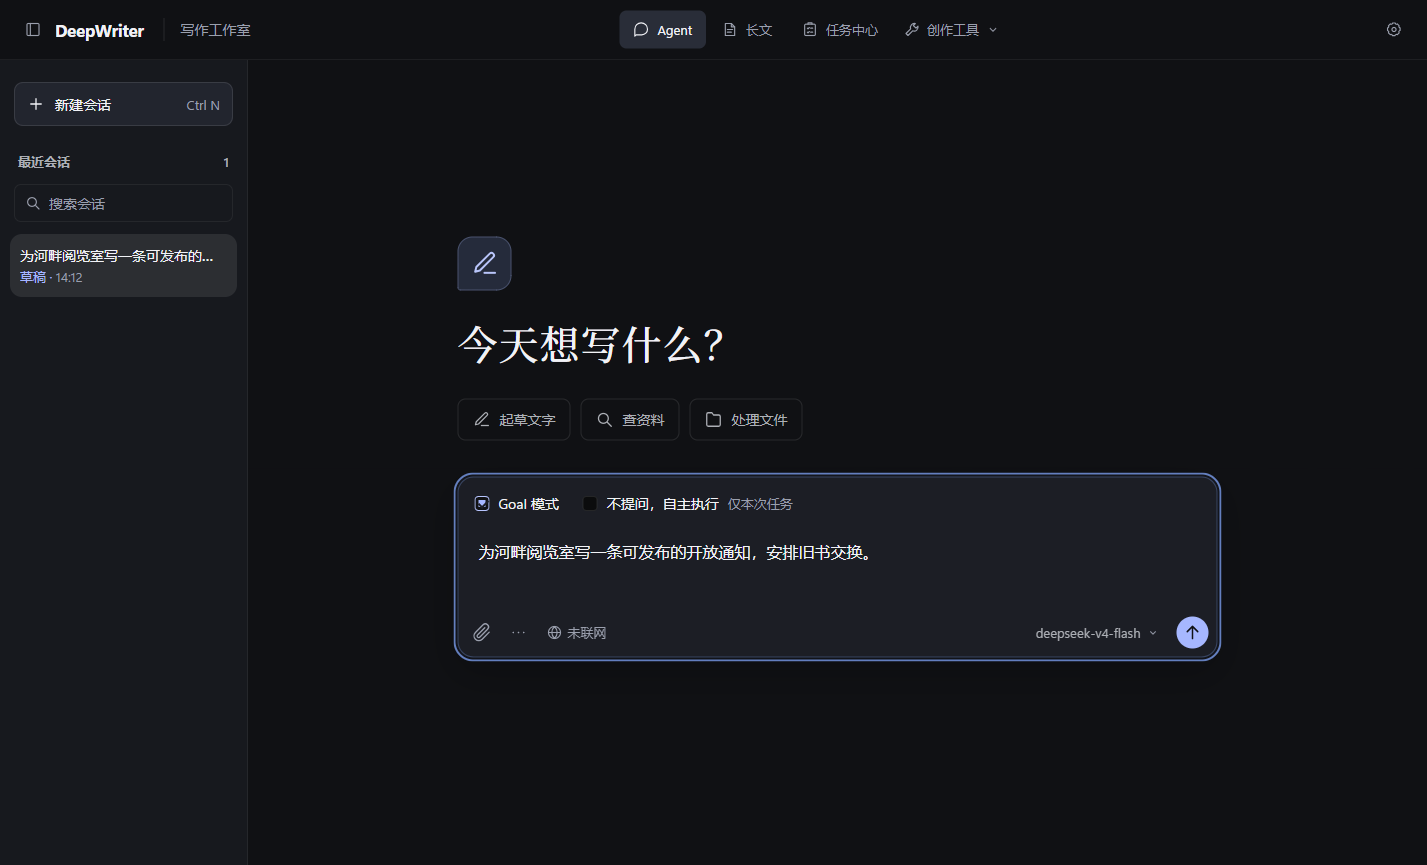
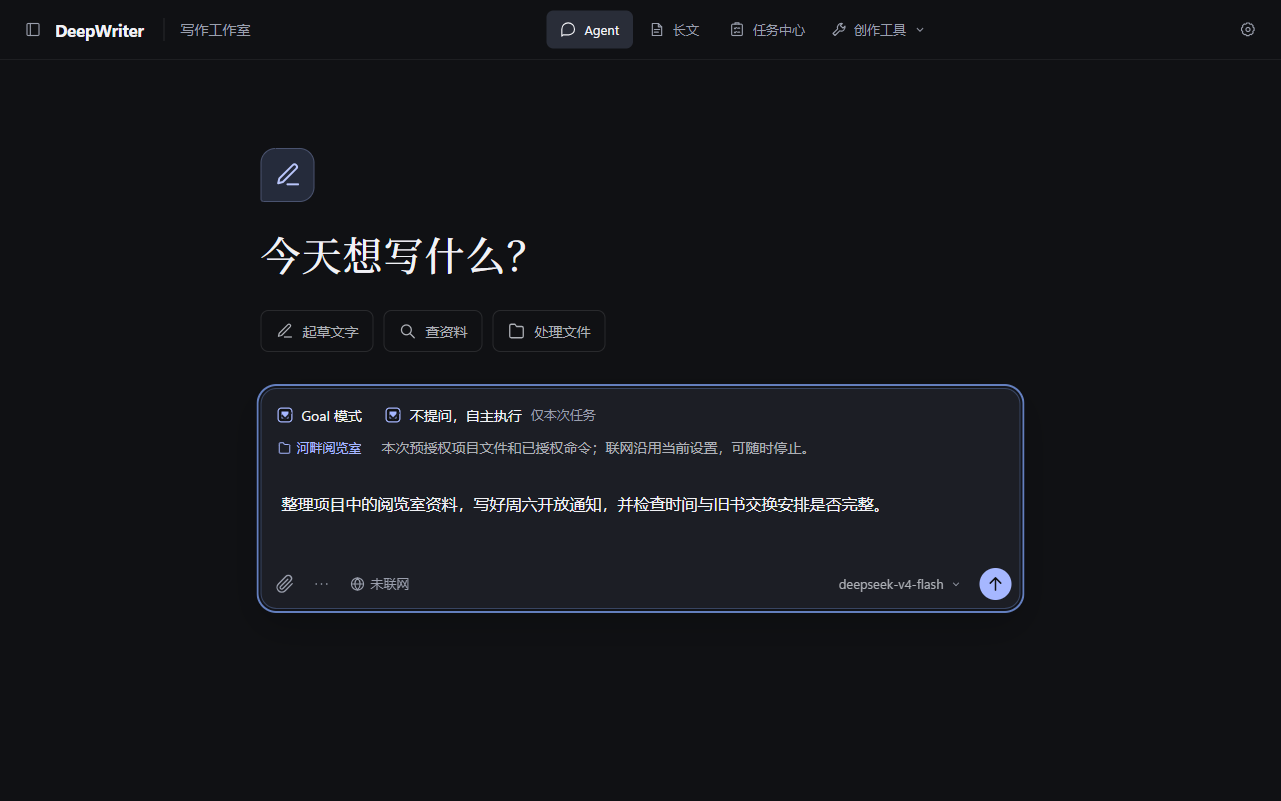
Keep goal delivery tied to the actual file and restore the same conversation on resume

diff --git a/src/main/jobs/fileDelivery.ts b/src/main/jobs/fileDelivery.ts
@@ -23,7 +23,7 @@ function plain(text: string): string {
 }
 export function deliveryPaths(text: string): string[] {
   const quoted = [...text.matchAll(/[`"“「]([^`"”」\r\n]+\.[a-zA-Z0-9]{1,10})[`"”」]/gu)].map(match => match[1])
-  const remaining = text.replace(/[`"“「][^`"”」\r\n]+[`"”」]/gu, ' ').replace(/(?:写入|保存(?:到|为)?|创建|生成|导出|存到|写到)\s*/gu, ' ')
+  const remaining = text.replace(/[`"“「][^`"”」\r\n]+[`"”」]/gu, ' ').replace(/(?:写入|保存(?:到|为|成)?|创建|生成|导出|存(?:到|为|成)|写到)\s*/gu, ' ')
   const bare = [...remaining.matchAll(/(?:[A-Za-z]:[\\/]|\.{1,2}[\\/]|\/)?(?:[\p{L}\p{N}_.-]+[\\/])*[\p{L}\p{N}_-]+\.[a-zA-Z0-9]{1,10}/gu)].map(match => match[0])
   return [...new Set([...quoted, ...bare])].filter(item => !/^https?:/iu.test(item) && !/^\d+\.\d+$/u.test(item))
 }
@@ -36,7 +36,7 @@ export function fileDeliveryObligation(text: string, speaker: 'user' | 'assistan
   for (const sentence of sentences) {
     if (/(?:如何|怎么|怎样|示例|举例|解释|演示|只(?:需|要|给)|不要|无需|不必|不(?:要|用|必)写入|没有|尚未|未曾|未实际|尚不|并未|无法|不能|拒绝|未成功|未写入|未保存|未创建|not(?:\s+been)?\s+(?:written|saved|created)|how\s+to|example)/iu.test(sentence)) continue
     if (speaker === 'assistant' && /(?:你可以|您可以|可自行|建议你|you (?:can|could|should))/iu.test(sentence)) continue
-    const verb = /写入|写成|保存(?:到|为|成)?|写到|存到|存为|落盘|创建|生成|制作|做成|导出|create|write|save|export|generate/iu.exec(sentence)
+    const verb = /写入|写成|保存(?:到|为|成)?|写到|存到|存为|存成|落盘|创建|生成|制作|做成|导出|create|write|save|export|generate/iu.exec(sentence)
     if (!verb) continue
     // Bind targets to the write destination, not to every mentioned source.
     // A passive completion ("result.md 已生成") binds its preceding object.
@@ -45,10 +45,10 @@ export function fileDeliveryObligation(text: string, speaker: 'user' | 'assistan
     if (!paths.length && speaker === 'assistant') paths = deliveryPaths(sentence.slice(0, verb.index)).slice(-1)
     if (paths.length > 0 && !paths.some(file => documentPath.test(file))) continue
     paths = paths.filter(file => documentPath.test(file))
-    const stored = /(?:写入|保存|写到|存到|存为|落盘|导出|save|export)/iu.test(sentence)
+    const stored = /(?:写入|保存|写到|存到|存为|存成|落盘|导出|save|export)/iu.test(sentence)
     const fileObject = paths.length > 0 || /(?:文件|本地|工作目录|文档目录|Word|PDF|Excel|file)/iu.test(sentence) || (stored && /文档|稿件|报告|document/iu.test(sentence))
     const act = speaker === 'user'
-      ? directed || /(?:^\s*(?:写入|保存|创建|生成|制作|导出)|^\s*(?:只)?(?:把|将).{0,80}(?:写入|保存|创建|生成|导出)|\b(?:please|create|write|save|export|generate)\b)/iu.test(sentence)
+      ? directed || /(?:^\s*(?:写入|保存|存到|存为|存成|创建|生成|制作|导出)|^\s*(?:只)?(?:把|将).{0,80}(?:写入|保存|存到|存为|存成|创建|生成|导出)|\b(?:please|create|write|save|export|generate)\b)/iu.test(sentence)
       : /(?:已(?:经)?|完成|成功|\b(?:I have|saved|written|created|exported|generated)\b)/iu.test(sentence) || (promises && /(?:我(?:会|将|来)|马上|现在|\bI will\b)/iu.test(sentence))
     if (fileObject && act) { required = true; targets.push(...paths) }
   }

diff --git a/src/renderer/src/store.ts b/src/renderer/src/store.ts
@@ -1251,12 +1251,18 @@ export const useStore = create<StudioStore>((set, get) => ({
   resumeRun: async (runId, tokenBudget, removeCallLimit, reauthorizeGoal) => {
     const ds = (window as any).ds
     if (!ds?.runsResume) return false
-    const goalResume = get().recoverableRuns.some(run => run.runId === runId && run.config.goalMode)
+    const recovery = get().recoverableRuns.find(run => run.runId === runId)
+    const goalResume = recovery?.config.goalMode && recovery.sessionId === get().currentSessionId
     const previousReply = goalResume ? get().messages.find(message => message.role === 'assistant' && (message.id === runId || message.id === `m_${runId}_assistant`)) : undefined
-    if (previousReply) set(state => ({ messages: state.messages.map(message => message.id === previousReply.id ? { ...message, content: '', status: 'thinking' } : message) }))
+    // A blocked goal can have no persisted assistant prose yet. Recreate only
+    // its presentation slot; its objective and execution remain main-owned.
+    const resumedReply: StudioUiMessage | undefined = !goalResume ? undefined : previousReply
+      ? { ...previousReply, content: '', status: 'thinking' }
+      : { id: runId, role: 'assistant', content: '', reasoning: '', status: 'thinking', usage: null, rounds: 0, toolEvents: [] }
+    if (resumedReply) set(state => ({ messages: previousReply ? state.messages.map(message => message.id === previousReply.id ? resumedReply : message) : [...state.messages, resumedReply] }))
     const rollbackReply = (): void => {
-      if (!previousReply) return
-      set(state => ({ messages: state.messages.map(message => message.id === previousReply.id && message.status === 'thinking' && !message.content ? previousReply : message) }))
+      if (!resumedReply) return
+      set(state => ({ messages: state.messages.flatMap(message => message.id === resumedReply.id && message.status === 'thinking' && !message.content ? previousReply ? [previousReply] : [] : [message]) }))
     }
     try {
       const r = await ds.runsResume(runId, tokenBudget, removeCallLimit, reauthorizeGoal)

diff --git a/src/renderer/src/components/Composer.tsx b/src/renderer/src/components/Composer.tsx
@@ -19,6 +19,7 @@ import { modelFailureNotice, type ModelFailureNotice } from '../modelFailure'
 import { useWorkSteering } from '../hooks/useWorkSteering'
 import './WorkSteering.css'
 import './GoalMode.css'
+import { useGoal } from '../goalSubscriptions'
 
 export default function Composer({ onOpenSettings }: { onOpenSettings?: () => void }): React.ReactNode {
   const text = useStore((state) => state.composerText)
@@ -51,6 +52,7 @@ export default function Composer({ onOpenSettings }: { onOpenSettings?: () => vo
   const stop = useStore((s) => s.stop)
   const running = useStore((s) => s.running)
   const steering = useWorkSteering()
+  const steeringGoal = useGoal(steering.view?.runId ?? null)
   const longMode = useStore((s) => s.longMode)
   const targetChars = useStore((s) => s.targetChars)
   const pendingAttachments = useStore((s) => s.pendingAttachments)
@@ -270,7 +272,7 @@ export default function Composer({ onOpenSettings }: { onOpenSettings?: () => vo
         <span>{draftSaveError}</span>
         <button type="button" className="dw-text-btn" onClick={() => void flushDrafts().catch(() => undefined)}>重试保存</button>
       </div>}
-      {!!steering.view?.messages.length && (running || steering.view.messages.some(item => item.status === 'pending')) && <details className="composer-steering" data-testid="work-steering-receipts">
+      {!!steering.view?.messages.length && (running || !steeringGoal || steering.view.messages.some(item => item.status === 'pending')) && <details className="composer-steering" data-testid="work-steering-receipts">
         <summary>补充指令 · {steering.view.messages.filter(item => item.status === 'pending').length} 条待处理</summary>
         <ul>{steering.view.messages.filter((item, index) => item.status === 'pending' || index >= steering.view!.messages.length - 6).map(item => <li key={item.requestId}>
           {(item.status === 'applied' || steering.view!.messages.some(message => message.status === 'applied')) && <span>{item.status === 'applied' ? '已加入运行上下文' : '待处理'}</span>}<p>{item.text}</p>

diff --git a/src/renderer/src/goalSubscriptions.ts b/src/renderer/src/goalSubscriptions.ts
@@ -53,8 +53,8 @@ export function subscribeGoal(runId: string, listener: () => void): () => void {
     if (!goals.size) { unsubscribe?.(); unsubscribe = undefined }
   }
 }
-export function useGoal(runId: string): GoalSnapshot | null {
-  const subscribe = useCallback((listener: () => void) => subscribeGoal(runId, listener), [runId])
-  const snapshot = useCallback(() => getGoal(runId), [runId])
+export function useGoal(runId: string | null): GoalSnapshot | null {
+  const subscribe = useCallback((listener: () => void) => runId ? subscribeGoal(runId, listener) : () => undefined, [runId])
+  const snapshot = useCallback(() => runId ? getGoal(runId) : null, [runId])
   return useSyncExternalStore(subscribe, snapshot, () => null)
 }

diff --git a/src/renderer/src/components/activity/GoalProgress.tsx b/src/renderer/src/components/activity/GoalProgress.tsx
@@ -38,6 +38,12 @@ export default memo(function GoalProgress({ runId, detail = false }: { runId: st
     if (!canContinue) return
     setBusy(true); setError(null)
     try {
+      const state = useStore.getState()
+      if (recovery?.sessionId && state.currentSessionId !== recovery.sessionId) {
+        if (state.running || state.submitting) throw new Error('请先结束当前运行，再恢复此目标。')
+        await state.switchSession(recovery.sessionId)
+      }
+      useStore.getState().setMode('agent')
       if (needsAnswer) {
         const owner = recovery?.sessionId ?? sessionId
         // A failed resume must not enqueue the same accepted answer twice.
